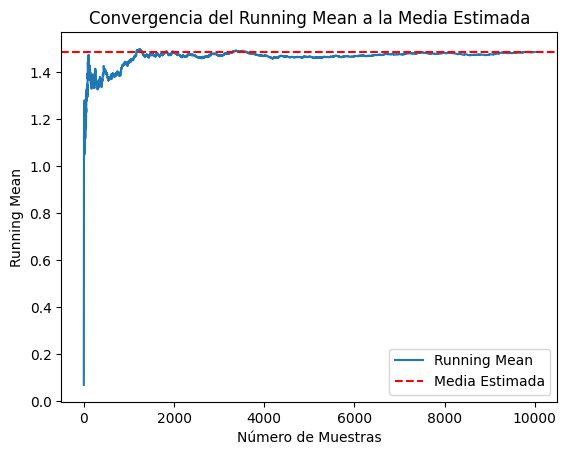
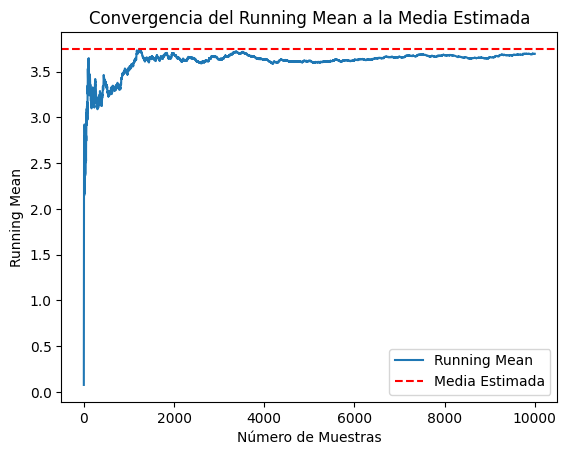
fixed bug with running mean

diff --git a/homeworks/exam-01/code/test.py b/homeworks/exam-01/code/test.py
@@ -1,15 +1,11 @@
 # Estimar E[X^2] y construir la gráfica de la convergencia de los "running means"
-running_means = np.cumsum(samples) / np.arange(1, n_samples + 1)
+running_means = np.cumsum(samples) / np.arange(1, n_samples + 1) + (np.cumsum(samples) / np.arange(1, n_samples + 1))**2
 
 # Graficar la convergencia
 plt.plot(running_means, label="Running Mean")
-plt.axhline(y=np.mean(samples), color="r", linestyle="--", label="Media Estimada")
+plt.axhline(y=3.75, color="r", linestyle="--", label="Media Estimada")
 plt.xlabel("Número de Muestras")
 plt.ylabel("Running Mean")
 plt.legend()
 plt.title("Convergencia del Running Mean a la Media Estimada")
 plt.show()
-
-# Estimación de E[X^2]
-E_X2_estimated = np.mean(samples) + np.mean(samples) ** 2
-print("Estimación de E[X^2]:", E_X2_estimated)
